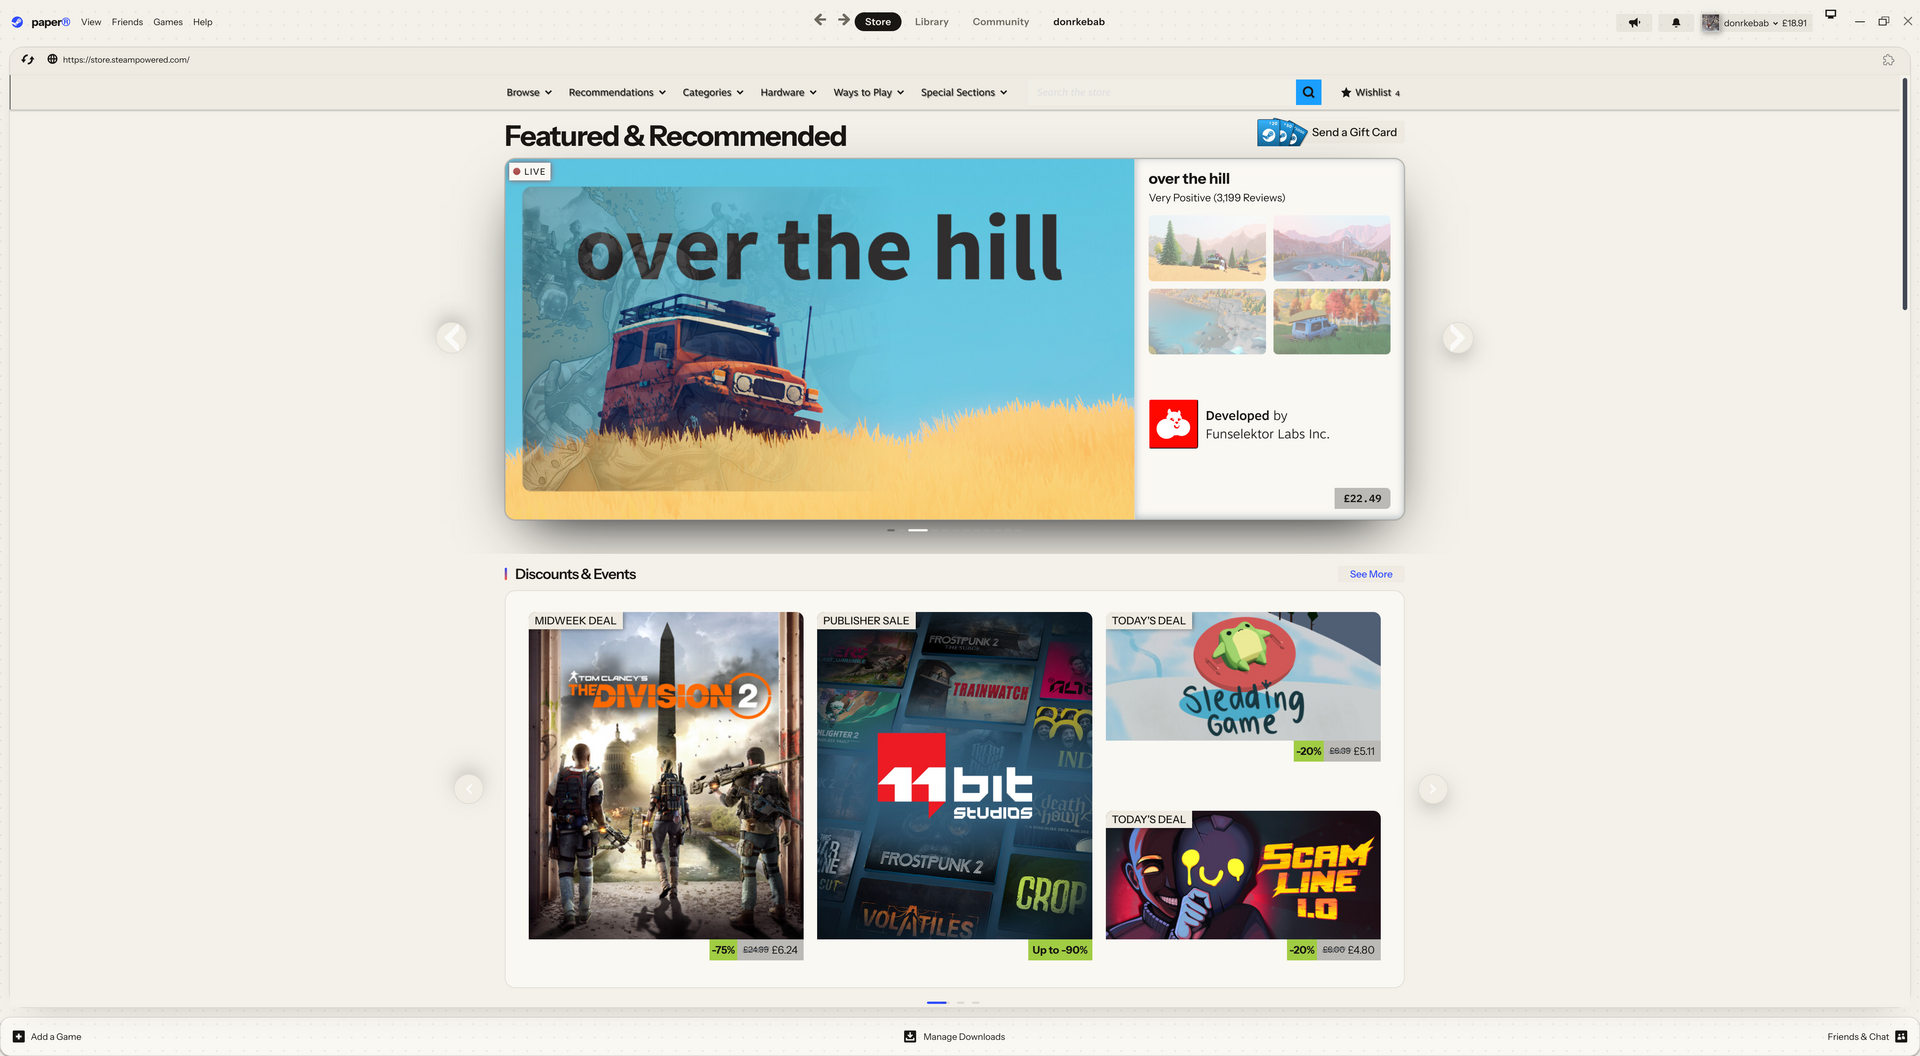
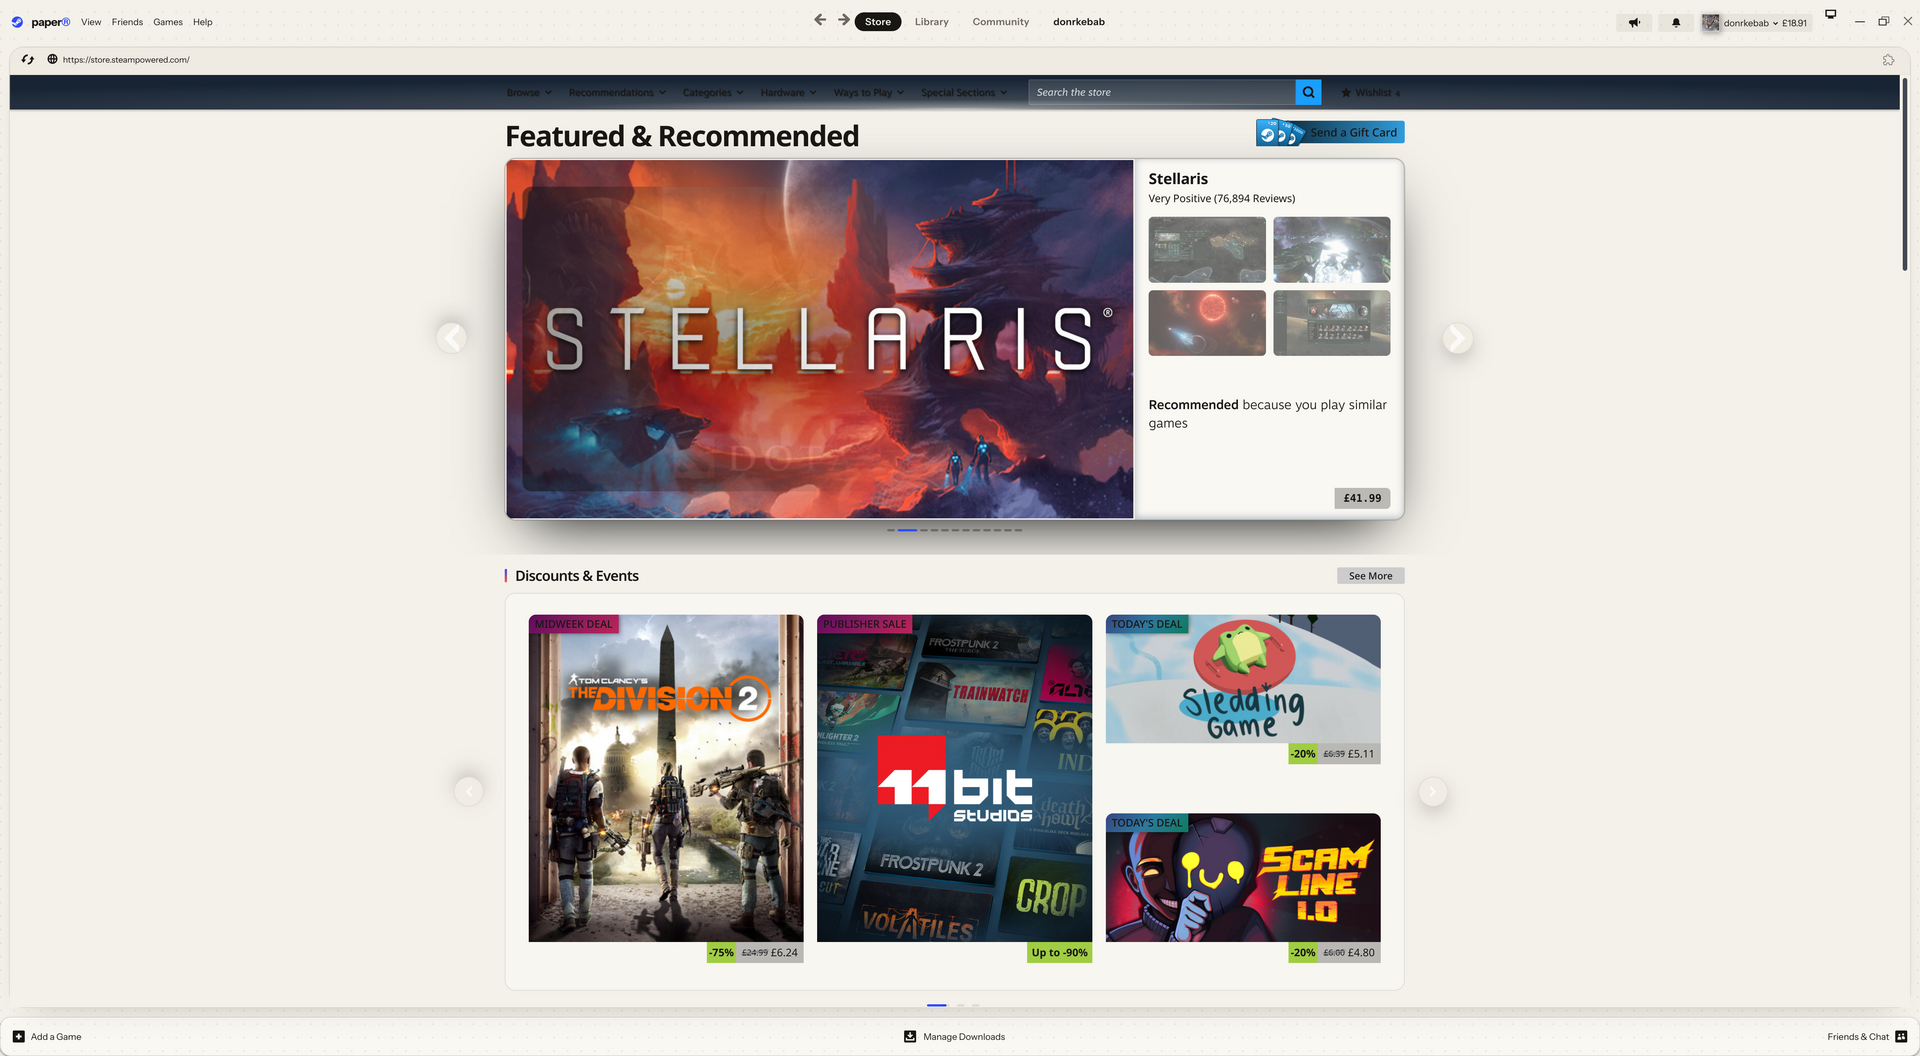
Center game page art with side fades, refresh screenshots

diff --git a/mx/main.css b/mx/main.css
@@ -1032,7 +1032,8 @@ body::before{content:"";position:fixed;inset:-20%;pointer-events:none;z-index:0;
 /* hero art: fill the banner edge to edge; hide the blurred fallback layer */
 .NZMJ6g2iVnFsOOp-lDmIP .HNbe3eZf6H7dtJ042x1vM.HSQWw9HUAP6jtA2OZjS-u{display:none!important}
 .NZMJ6g2iVnFsOOp-lDmIP .QlR9EFwTdUNm_J5vx54_Z{left:0!important;right:0!important;width:100%!important}
-.NZMJ6g2iVnFsOOp-lDmIP .HNbe3eZf6H7dtJ042x1vM:not(.HSQWw9HUAP6jtA2OZjS-u){width:100%!important;height:100%!important;object-fit:cover!important;object-position:center 30%!important;left:0!important;transform:none!important}
+.NZMJ6g2iVnFsOOp-lDmIP{background:var(--bg-solid)!important}
+.NZMJ6g2iVnFsOOp-lDmIP .HNbe3eZf6H7dtJ042x1vM:not(.HSQWw9HUAP6jtA2OZjS-u){width:100%!important;height:100%!important;object-fit:contain!important;object-position:center!important;left:0!important;transform:none!important;-webkit-mask-image:linear-gradient(90deg,transparent 0,#000 22%,#000 78%,transparent 100%);mask-image:linear-gradient(90deg,transparent 0,#000 22%,#000 78%,transparent 100%)}
 ._3ydigb6zZAjJ0JCDgHwSYA._2AzIX5kl9k6JnxLfR5H4kX:has(.SVGIcon_Play) *,._3ydigb6zZAjJ0JCDgHwSYA._2AzIX5kl9k6JnxLfR5H4kX:has(.SVGIcon_Download) *{color:inherit!important;fill:currentColor!important}
 /* ===== layout layer: floating composition, motion, spotlight ===== */
 :root{--ease:cubic-bezier(.2,.9,.25,1)}
